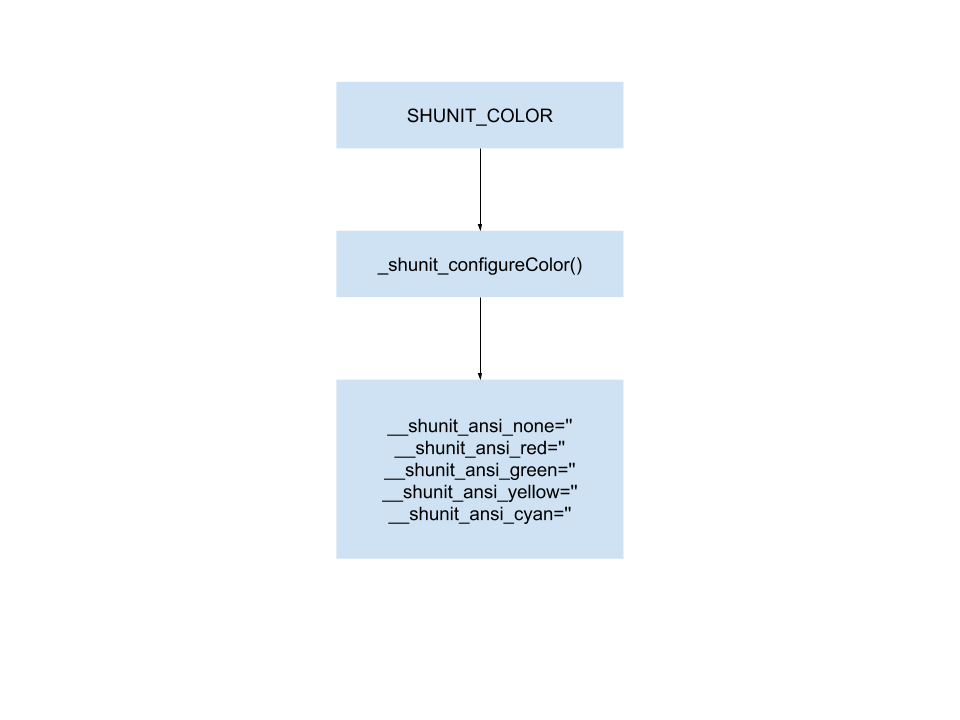
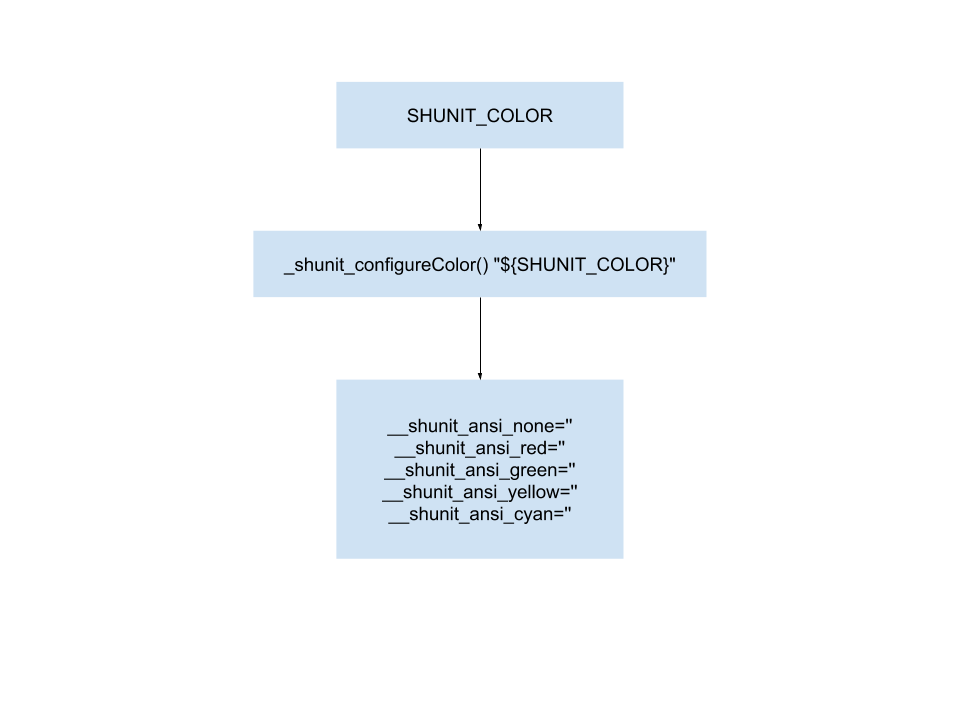
source code dissection: update SHUNIT_COLOR asset

Changed region(s): [[0.25, 0.3056, 0.75, 0.4278]]

diff --git a/source-code-dissection/SHUNIT_COLOR.md b/source-code-dissection/SHUNIT_COLOR.md
@@ -7,6 +7,11 @@ This document dissects `SHUNIT_COLOR` environment variable related logic at the 
 
 ![SHUNIT_COLOR](../assets/SHUNIT_COLOR.png)
 
+<!--
+Google Drawing reference:
+https://docs.google.com/drawings/d/1z99cjAzNes3LS5u6rdDIj-NNoxd_baQtpNxP4qpEa70/edit?usp=drive_web&ouid=107636480068971277726
+-->
+
 ``` bash
 # Enable color output. Options are 'never', 'always', or 'auto'.
 SHUNIT_COLOR=${SHUNIT_COLOR:-auto}
